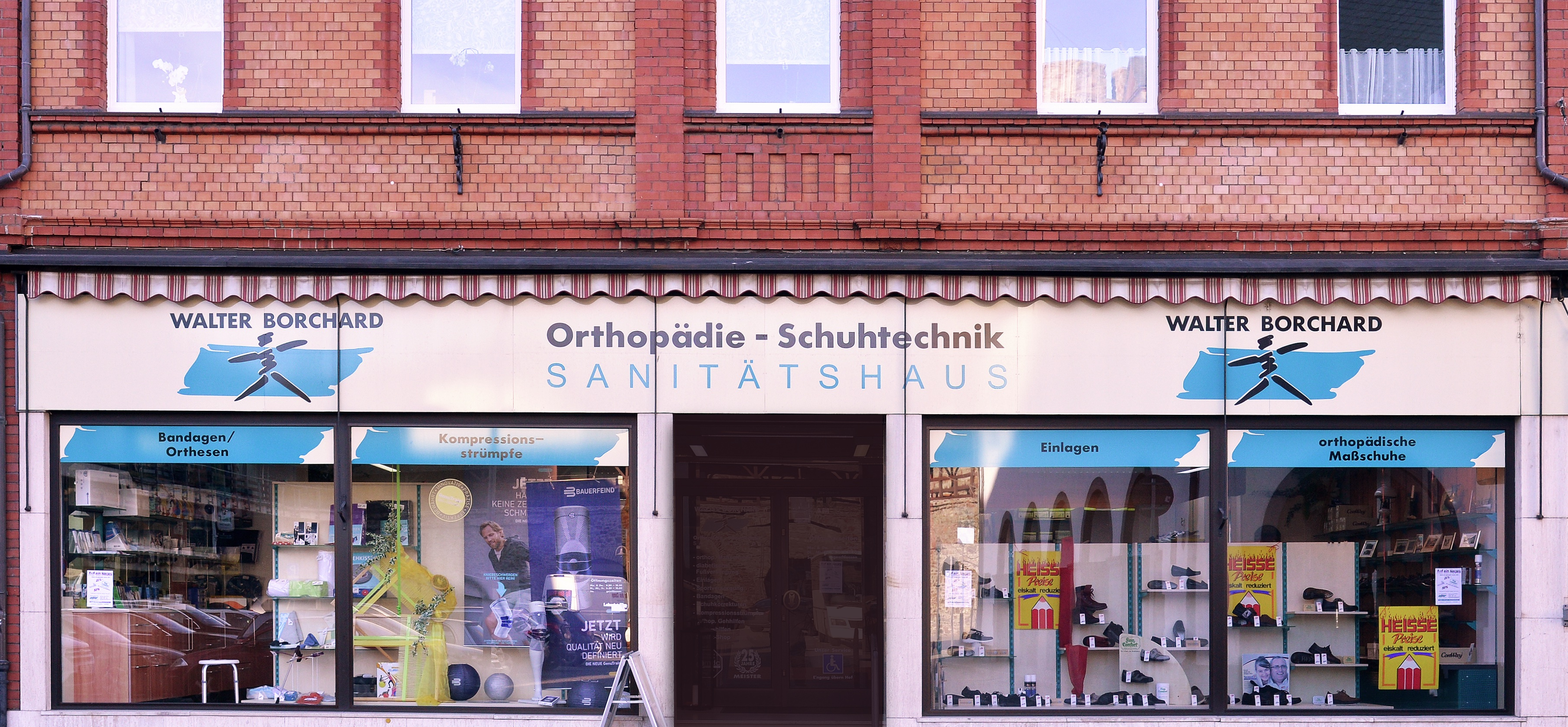
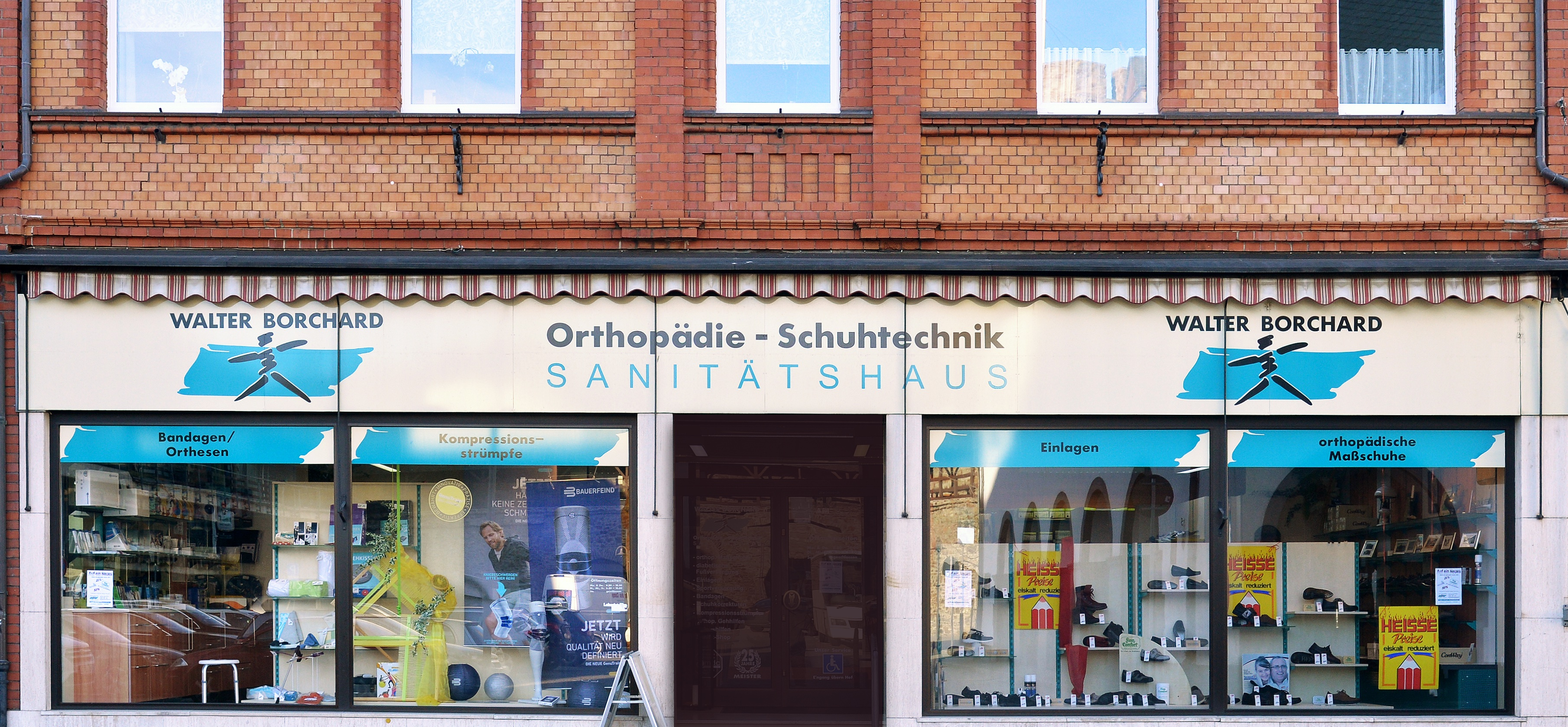
Fassade korrigiert

diff --git a/_includes/css/header.css b/_includes/css/header.css
@@ -4,7 +4,7 @@
     flex-direction: column;
     align-items: center;
     width: 100%;
-    
+
     /*position: relative;*/
 }
 
@@ -131,7 +131,7 @@
 }
 
 .header__image--firma {
-    background-image: url("/assets/ladenfront.jpg");
+    background-image: url("/assets/fassade.jpg");
 }
 
 .header__image--regio {
@@ -143,7 +143,7 @@
 }
 
 .header__text {
-    margin-bottom: 80px; 
+    margin-bottom: 80px;
     margin-left: 40px;
     margin-right: 40px;
     text-align: center;
@@ -232,7 +232,7 @@
     margin-left: 30px;
     margin-top: 20px;
     max-width: 160px; /* workaround, to be fixed */
-    }   
+    }
 
     .nav__logo-img {
         width: 140px;
